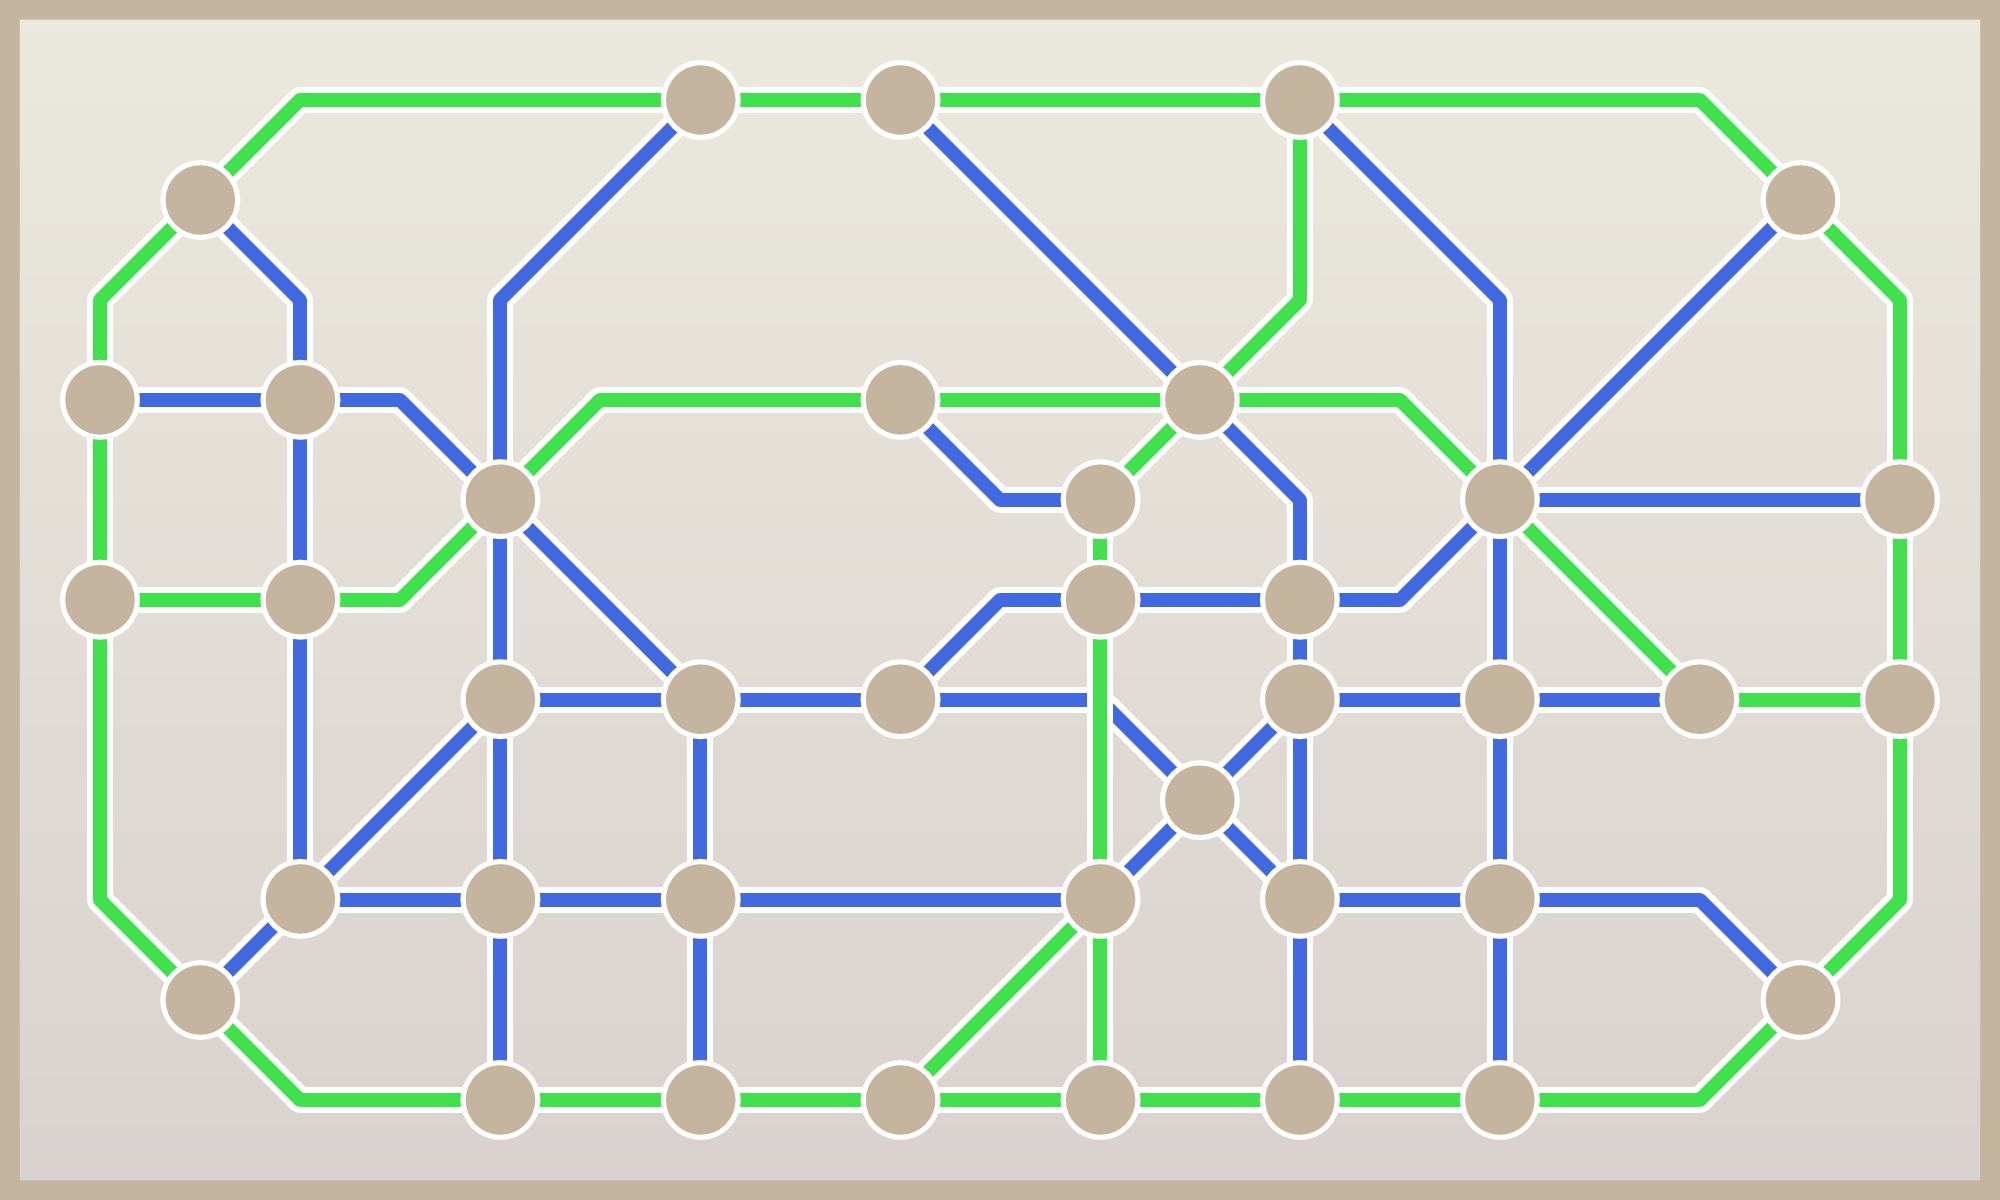
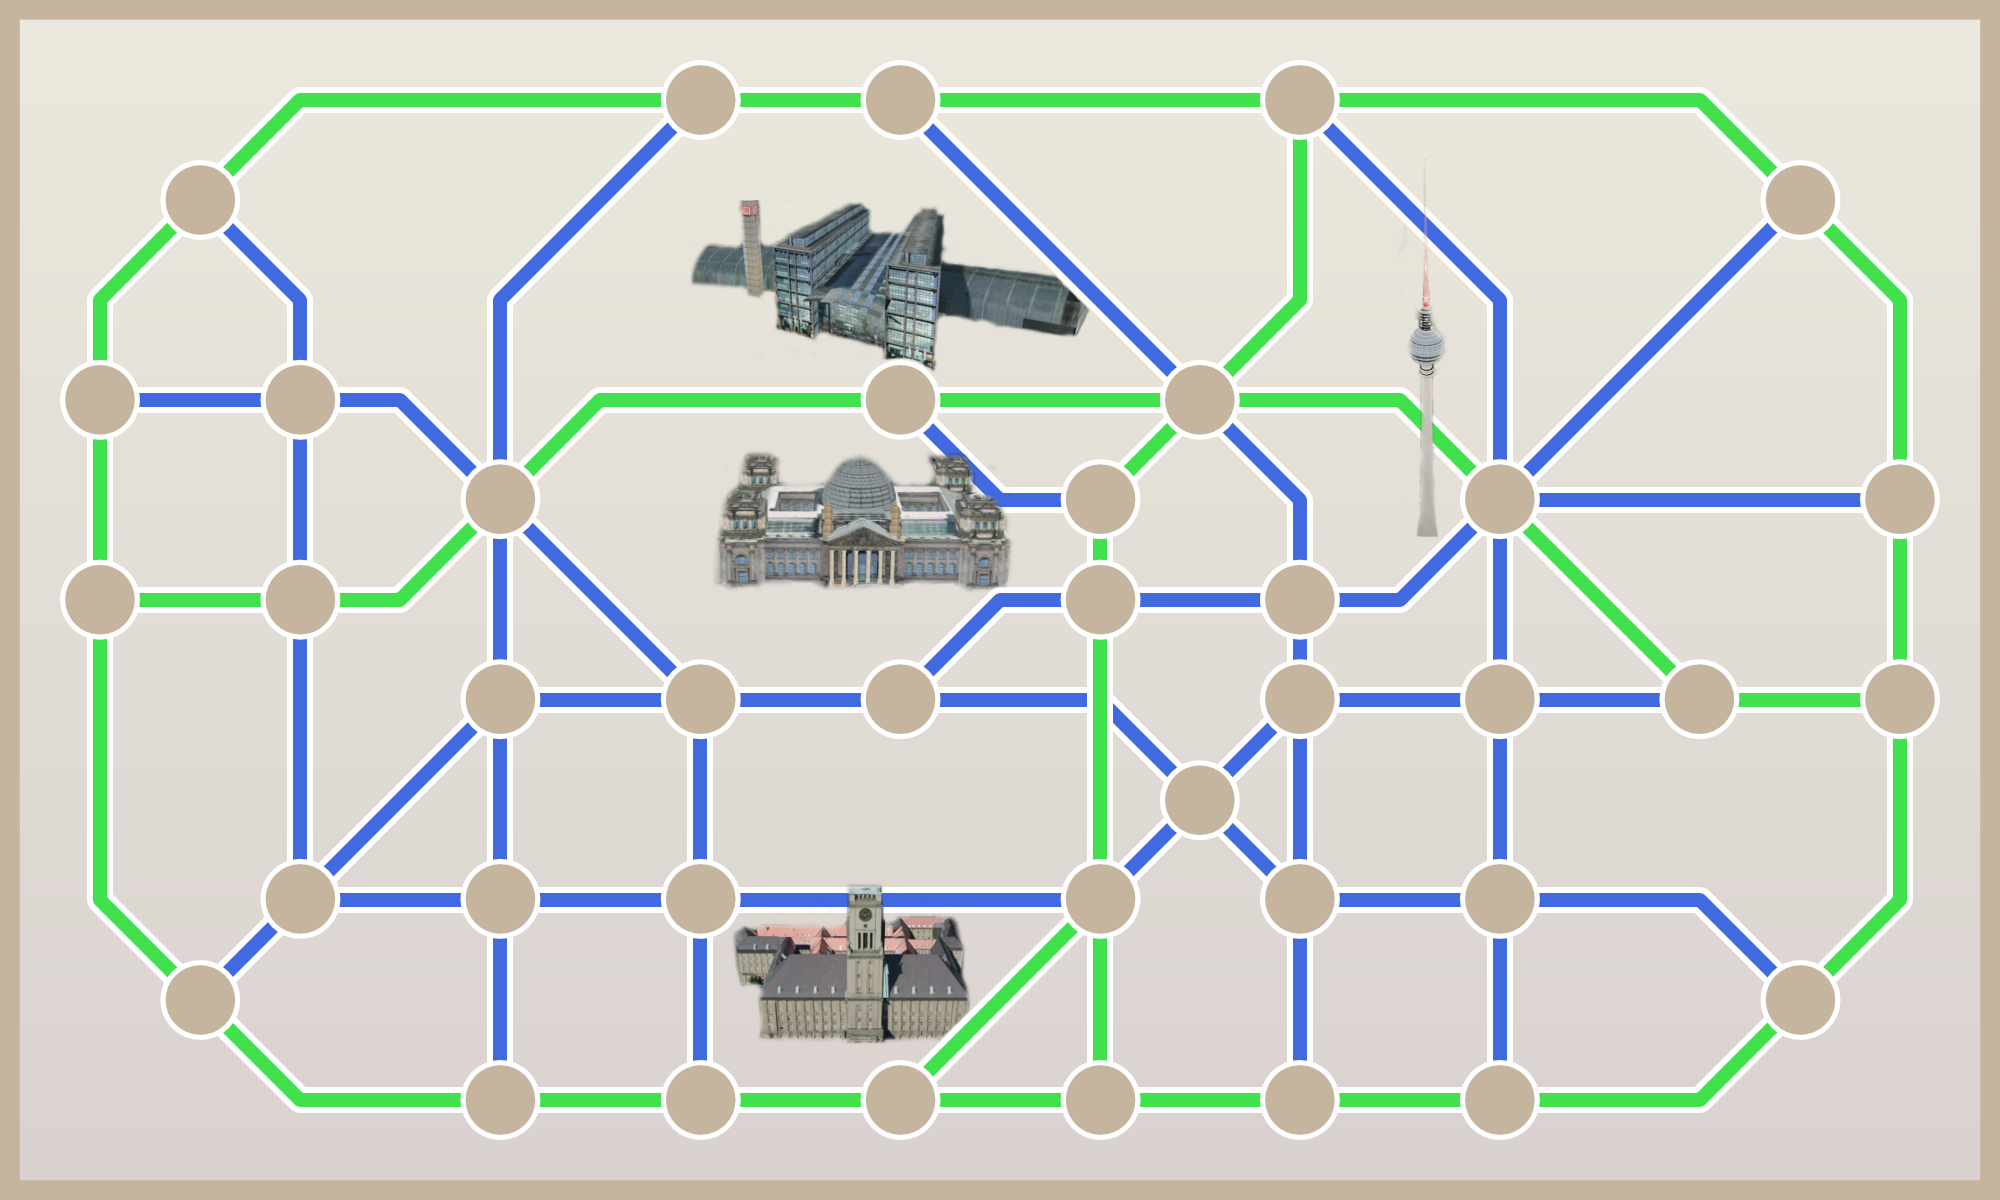
added some 3D buildings
Added Open Data 3D builds from 3D Stadtmodell Berlin

diff --git a/README.md b/README.md
@@ -27,6 +27,6 @@ Now and then the ape will let you know its position and is visible for a short t
 
 ## Licenses
 
-The code uses the MIT license. All graphics and texts uses the CC-BY-4.0 license. The parking data use the CC-BY 4.0 license with the attribution of "DB BahnPark GmbH". The elevator data use the CC-BY 4.0 license with the attribution of "DB Station&Service AG".
+The code uses the MIT license. All graphics and texts uses the CC-BY-4.0 license. The parking data use the CC-BY 4.0 license with the attribution of "DB BahnPark GmbH". The elevator data use the CC-BY 4.0 license with the attribution of "DB Station&Service AG". The 3D buildings are provided as Open Data by Berlin Partner für Wirtschaft und Technologie GmbH.
 
 The "S-Bahn-Logo" is registered trademark of Deutsche Bahn AG. The usage of this trademark is prohibited in games like mine.
